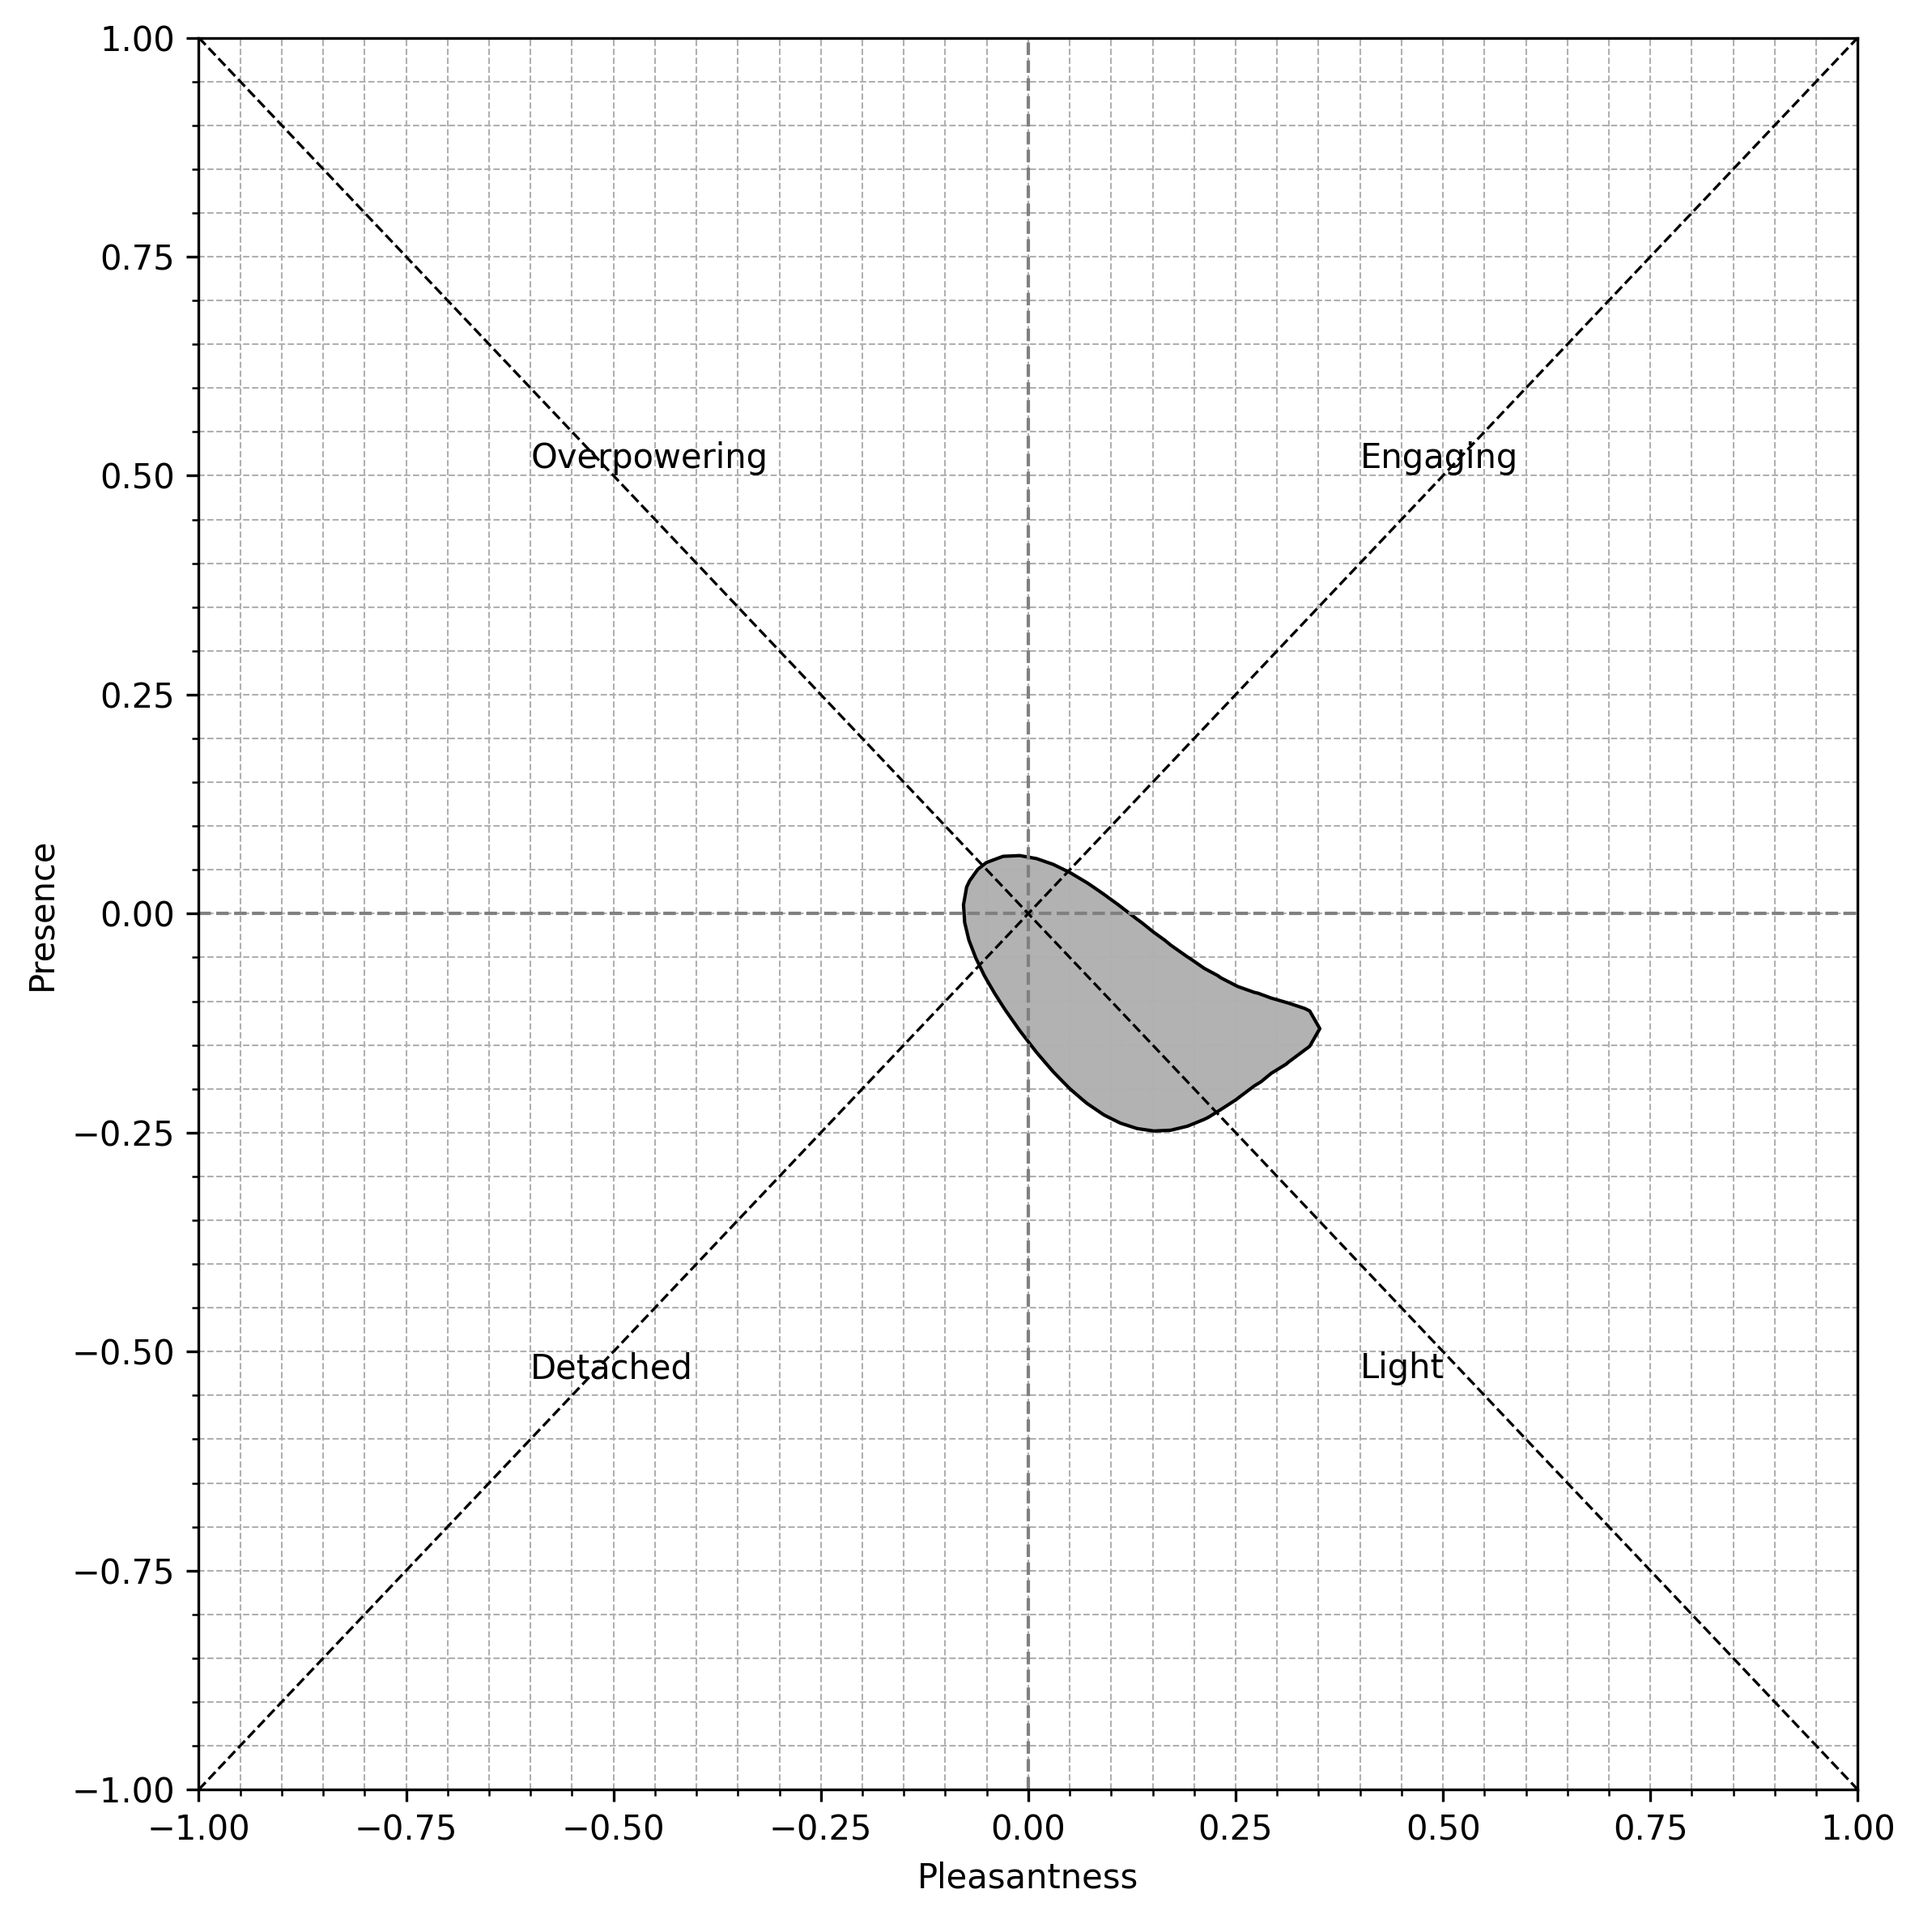
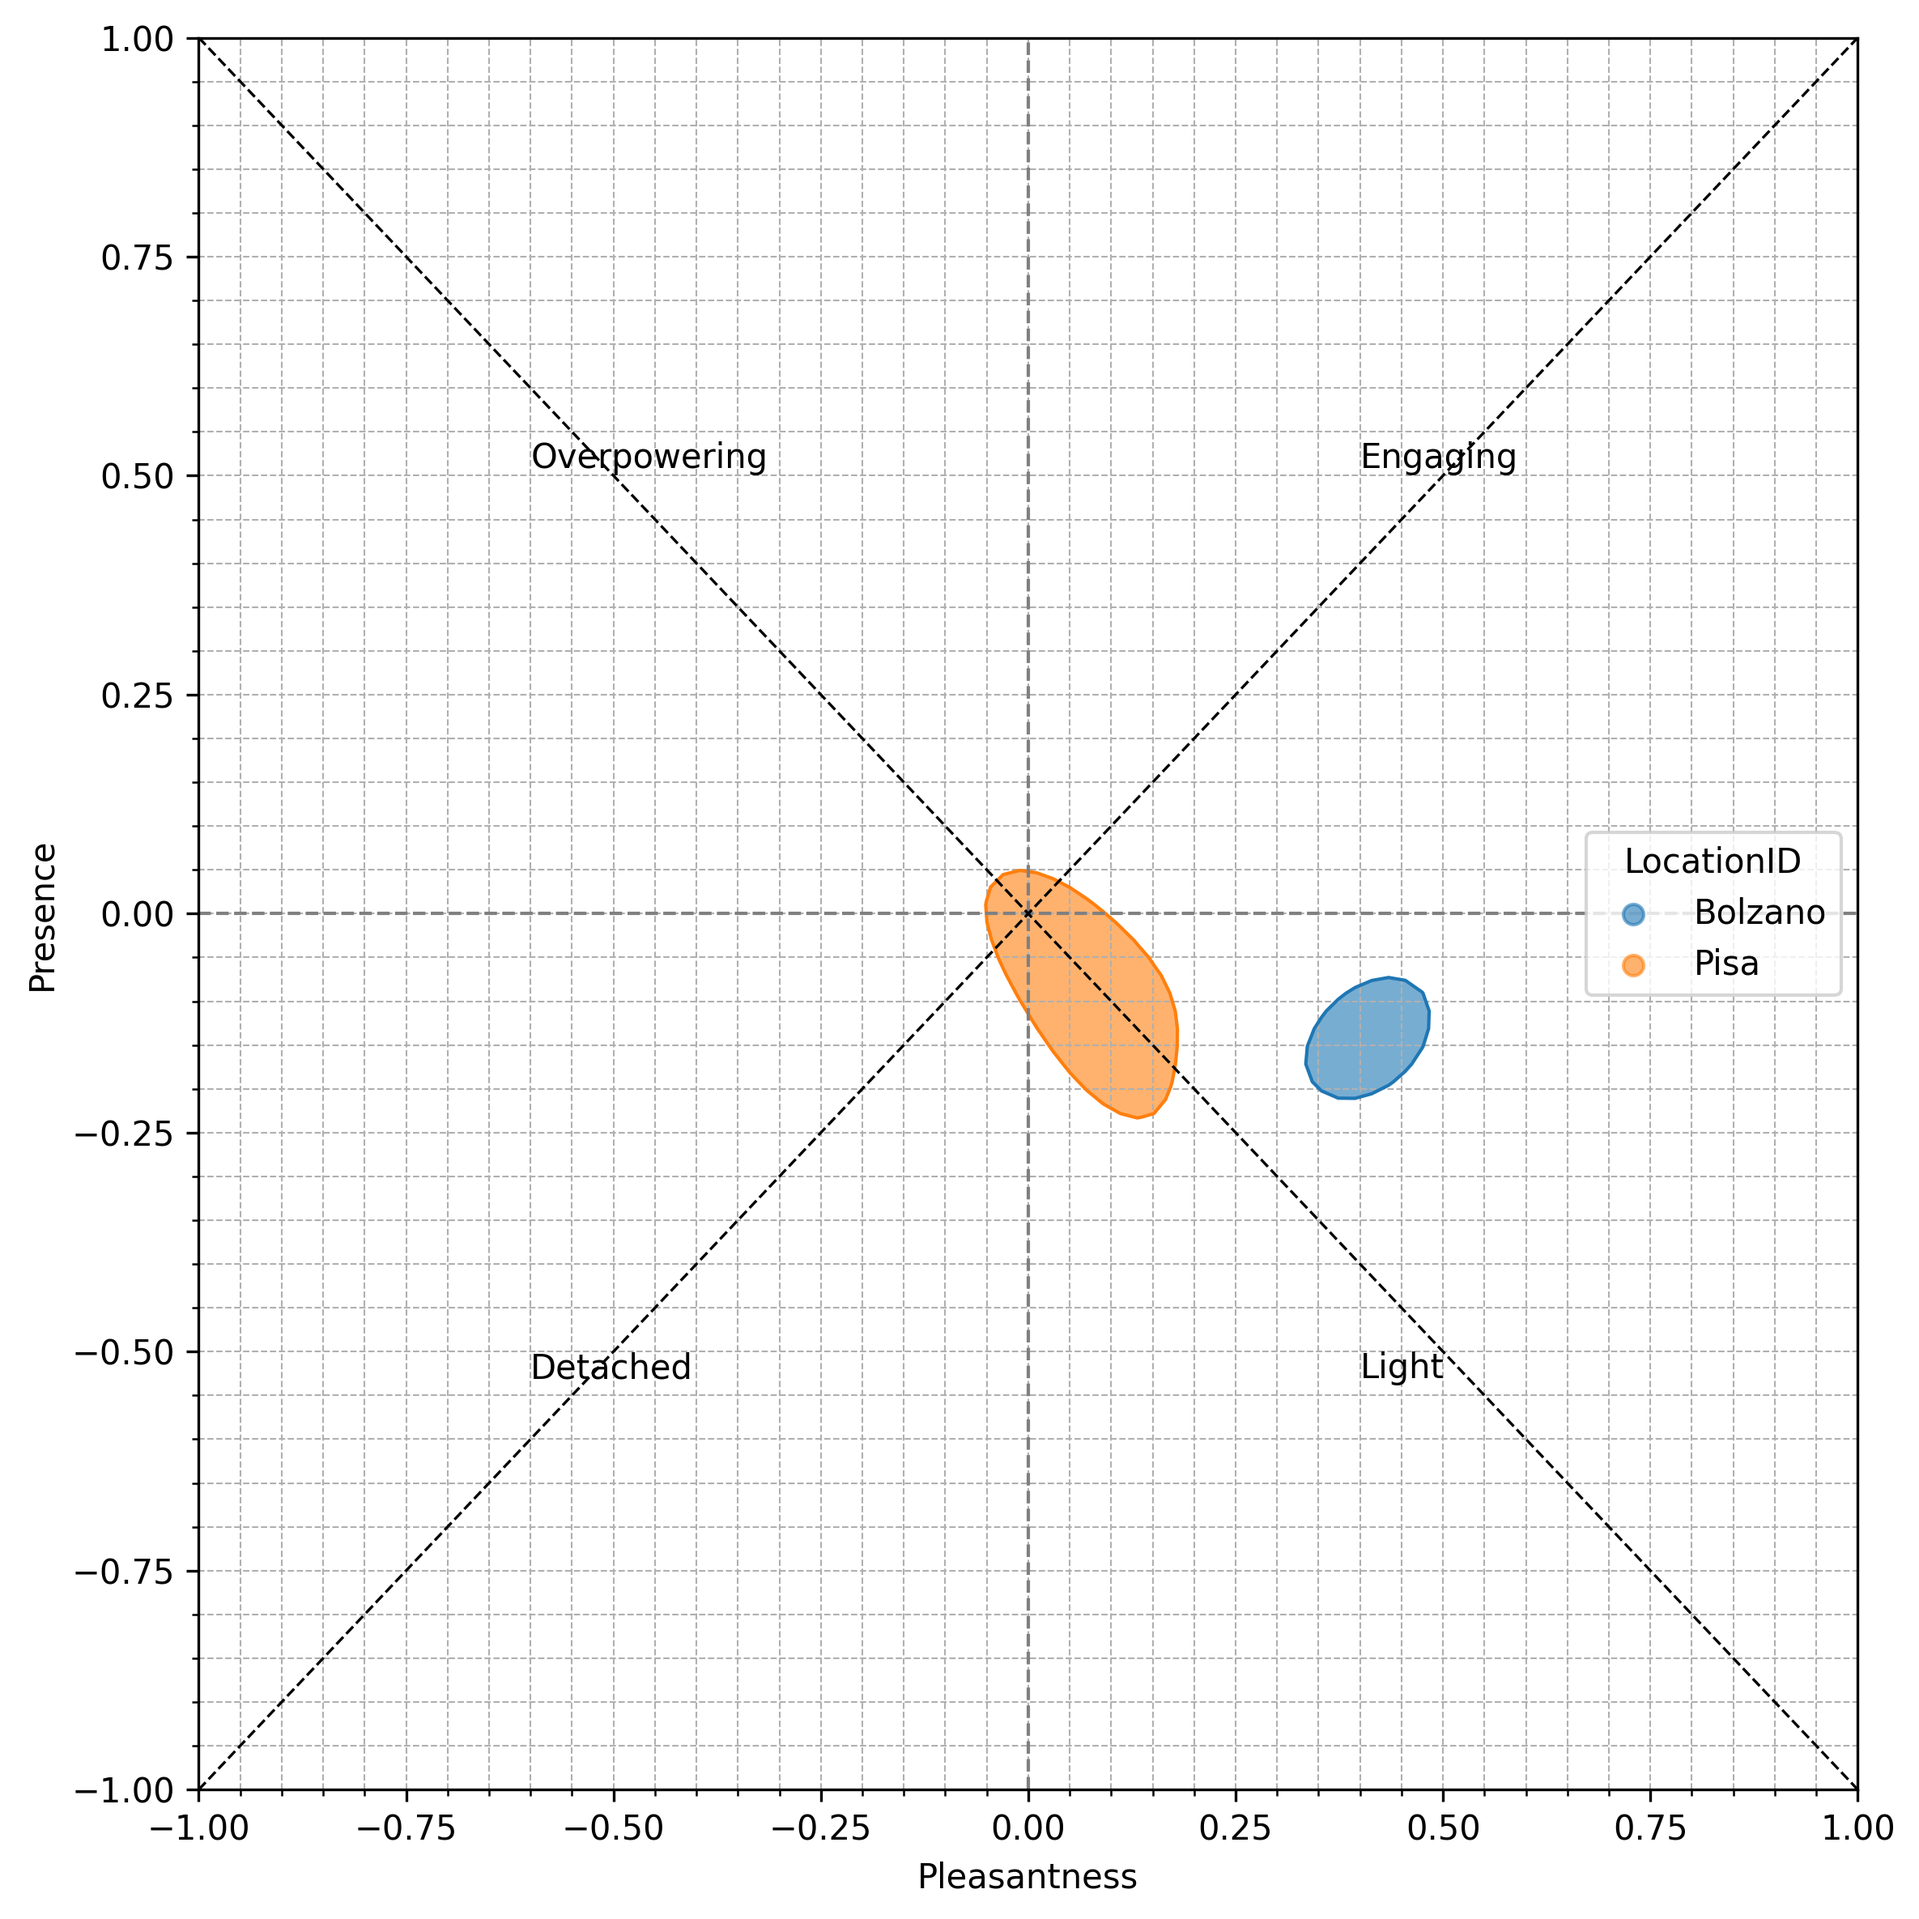
no message

Changed region(s): [[0.4996, 0.4371, 0.7494, 0.5932], [0.8118, 0.4371, 0.9679, 0.5308]]

diff --git a/src/smellscapy/plotting/simple_density.py b/src/smellscapy/plotting/simple_density.py
@@ -3,57 +3,124 @@ import matplotlib.pyplot as plt
 from scipy.stats import gaussian_kde
 from smellscapy.calculations import calculate_pleasantness, calculate_presence
 
-def plot_50percentile(df, xlim=(-1, 1), ylim=(-1, 1), xlabel="Pleasantness", ylabel = "Presence"):
 
-    plt.figure(figsize=(8, 8))
+def plot_density(df, **kwargs):
+    
+    # Default parameters
+    params = {
+        "xlim": (-1, 1),
+        "ylim": (-1, 1),
+        "figsize": (8, 8),
+        "xlabel": "Pleasantness",
+        "ylabel": "Presence",
+        "point_alpha": 0.6,
+        "contour_color": "black",
+        "contour_width": 1,
+        "fill_color": "grey",
+        "axis_line_color": "grey",
+        "axis_line_style": "--",
+        "axis_line_width": 1,
+        "diag_color": "black",
+        "diag_style": "--",
+        "diag_width": 0.8,
+        "labels": {
+            "overpowering": {"pos": (-0.6, 0.5), "text": "Overpowering"},
+            "detached": {"pos": (-0.6, -0.5), "text": "Detached"},
+            "engaging": {"pos": (0.4, 0.5), "text": "Engaging"},
+            "light": {"pos": (0.4, -0.5), "text": "Light"},
+        },
+        "fontsize": 10,
+        "savefig": True,
+        "filename": "density_plot.png",
+        "dpi": 300,
+        "group_col": None   # column used to divide the dataset
+    }
+
+
+    # Update only the parameters provided by the user
+    for key, value in kwargs.items():
+        if key in params and isinstance(params[key], dict) and isinstance(value, dict):
+            params[key].update(value)
+        else:
+            params[key] = value
+    
     x = df['pleasantness_score'].values
     y = df['presence_score'].values
 
-    # Calculate density with KDE
-    xy = np.vstack([x, y])
-    kde = gaussian_kde(xy)
-    z = kde(xy)
+    plt.figure(figsize=params["figsize"])
 
-    # Calculate 50% density
-    z_sorted = np.sort(z)
-    cdf = np.cumsum(z_sorted)
-    cdf /= cdf[-1]
-    z_50 = z_sorted[np.searchsorted(cdf, 0.5)]
+    # calculate and plot 50% contour
+    def plot_group(x, y, label=None, color=None):
+        xy = np.vstack([x, y])
+        kde = gaussian_kde(xy)
+        z = kde(xy)
 
-    # Contour grid
-    xi, yi = np.mgrid[
-        xlim[0]:xlim[1]:100j,
-        ylim[0]:ylim[1]:100j
-    ]
-    zi = kde(np.vstack([xi.ravel(), yi.ravel()])).reshape(xi.shape)
+        # Threshold 50%
+        z_sorted = np.sort(z)
+        cdf = np.cumsum(z_sorted)
+        cdf /= cdf[-1]
+        z_50 = z_sorted[np.searchsorted(cdf, 0.5)]
 
-    # Contour 50° percentile
-    plt.contourf(xi, yi, zi, levels=[z_50, zi.max()], colors=['grey'], alpha=0.6)
-    plt.contour(xi, yi, zi, levels=[z_50], colors='black', linewidths=1)
+        # Grid for contour
+        xi, yi = np.mgrid[
+            params["xlim"][0]:params["xlim"][1]:100j,
+            params["ylim"][0]:params["ylim"][1]:100j
+        ]
+        zi = kde(np.vstack([xi.ravel(), yi.ravel()])).reshape(xi.shape)
 
+        plt.contourf(xi, yi, zi, levels=[z_50, zi.max()],
+                     colors=[color if color else params["fill_color"]],
+                     alpha=params["point_alpha"])
+        plt.contour(xi, yi, zi, levels=[z_50],
+                    colors=[color if color else params["contour_color"]],
+                    linewidths=params["contour_width"])
+        if label:
+            plt.scatter([], [], color=color if color else params["fill_color"],
+                        alpha=params["point_alpha"], label=label)
 
-    plt.xlim(xlim)
-    plt.ylim(ylim)
-    plt.xlabel(xlabel)
-    plt.ylabel(ylabel)
-    plt.axhline(0, color='grey', linestyle='--', linewidth=1)
-    plt.axvline(0, color='grey', linestyle='--', linewidth=1)
+    # Plot
+    if params["group_col"] is not None and params["group_col"] in df.columns:
+        import itertools
+        colors = itertools.cycle(plt.cm.tab10.colors)  # palette di default
+        groups = df.groupby(params["group_col"])
+        for name, group in groups:
+            color = next(colors)
+            plot_group(group['pleasantness_score'].values,
+                       group['presence_score'].values,
+                       label=str(name),
+                       color=color)
+        plt.legend(title=params["group_col"])
+    else:
+        x = df['pleasantness_score'].values
+        y = df['presence_score'].values
+        plot_group(x, y)
+
+    plt.xlim(params["xlim"])
+    plt.ylim(params["ylim"])
+    plt.xlabel(params["xlabel"])
+    plt.ylabel(params["ylabel"])
+
+    # Central axes
+    plt.axhline(0, color=params["axis_line_color"], linestyle=params["axis_line_style"], linewidth=params["axis_line_width"])
+    plt.axvline(0, color=params["axis_line_color"], linestyle=params["axis_line_style"], linewidth=params["axis_line_width"])
 
     # Diagonal lines
-    x_vals = np.linspace(xlim[0], xlim[1], 200)
-    plt.plot(x_vals, x_vals, linestyle='--', color='black', linewidth=0.8)
-    plt.plot(x_vals, -x_vals, linestyle='--', color='black', linewidth=0.8)
+    x_vals = np.linspace(params["xlim"][0], params["xlim"][1], 200)
+    plt.plot(x_vals, x_vals, linestyle=params["diag_style"], color=params["diag_color"], linewidth=params["diag_width"])
+    plt.plot(x_vals, -x_vals, linestyle=params["diag_style"], color=params["diag_color"], linewidth=params["diag_width"])
 
-    # Diagonal lines text
-    plt.text(-0.6, 0.5, 'Overpowering', ha='left', va='bottom', fontsize=10)
-    plt.text(-0.6, -0.5, 'Detached', ha='left', va='top', fontsize=10)
-    plt.text(0.4, 0.5, 'Engaging', ha='left', va='bottom', fontsize=10)
-    plt.text(0.4, -0.5, 'Light', ha='left', va='top', fontsize=10)
+    # Diagonal labels
+    for lbl in params["labels"].values():
+        plt.text(lbl["pos"][0], lbl["pos"][1], lbl["text"],
+                 ha='left', va='bottom' if lbl["pos"][1] > 0 else 'top',
+                 fontsize=params["fontsize"])
 
-
+    # Grid and formatting
     plt.minorticks_on()
     plt.grid(True, which='both', linestyle='--', linewidth=0.5)
     plt.tight_layout()
 
-    plt.savefig("50percentile_plot.png", dpi=300, bbox_inches='tight')
-    plt.show()   
+    if params["savefig"]:
+        plt.savefig(params["filename"], dpi=params["dpi"], bbox_inches='tight')
+
+    plt.show()

diff --git a/src/smellscapy/plotting/scatter.py b/src/smellscapy/plotting/scatter.py
@@ -14,7 +14,7 @@ def plot_scatter(df, **kwargs):
         "point_size": 50,
         "xlabel": "Pleasantness",
         "ylabel": "Presence",
-        "line_color": "grey",
+        "line_color": "grey",     #  if no division is performed
         "line_style": "--",
         "line_width": 1,
         "diag_color": "black",
@@ -29,7 +29,8 @@ def plot_scatter(df, **kwargs):
         "fontsize": 10,
         "savefig": True,
         "filename": "scatter_plot.png",
-        "dpi": 300
+        "dpi": 300,
+        "group_col": None   # column used to divide the dataset. Default is no division
     }
 
 # Update only the parameters provided by the user
@@ -45,7 +46,15 @@ def plot_scatter(df, **kwargs):
 
     # Plot
     plt.figure(figsize=params["figsize"])
-    plt.scatter(x, y, color=params["point_color"], s=params["point_size"])
+
+    if params["group_col"] is not None and params["group_col"] in df.columns:
+        groups = df.groupby(params["group_col"])
+        for name, group in groups:
+            plt.scatter(group['pleasantness_score'], group['presence_score'],
+                        s=params["point_size"], label=str(name), alpha=0.8)
+        plt.legend(title=params["group_col"])
+    else:
+        plt.scatter(x, y, color=params["point_color"], s=params["point_size"])
 
     plt.xlim(params["xlim"])
     plt.ylim(params["ylim"])

diff --git a/src/main.py b/src/main.py
@@ -29,11 +29,15 @@ calculate_pleasantness(df)
 calculate_presence(df)
 
 
-plot_scatter(df, xlim=(-1, 1), ylim=(-1, 1))
+plot_scatter(df)
 
-plot_joint(df, xlim=(-1, 1), ylim=(-1, 1))
+#plot_scatter(df, group_col = "LocationID")
 
-plot_50percentile(df, xlim=(-1, 1), ylim=(-1, 1))
+plot_density(df)
+
+#plot_density(df, group_col = "LocationID")
+
+plot_joint(df)
     
 print(df)
 
